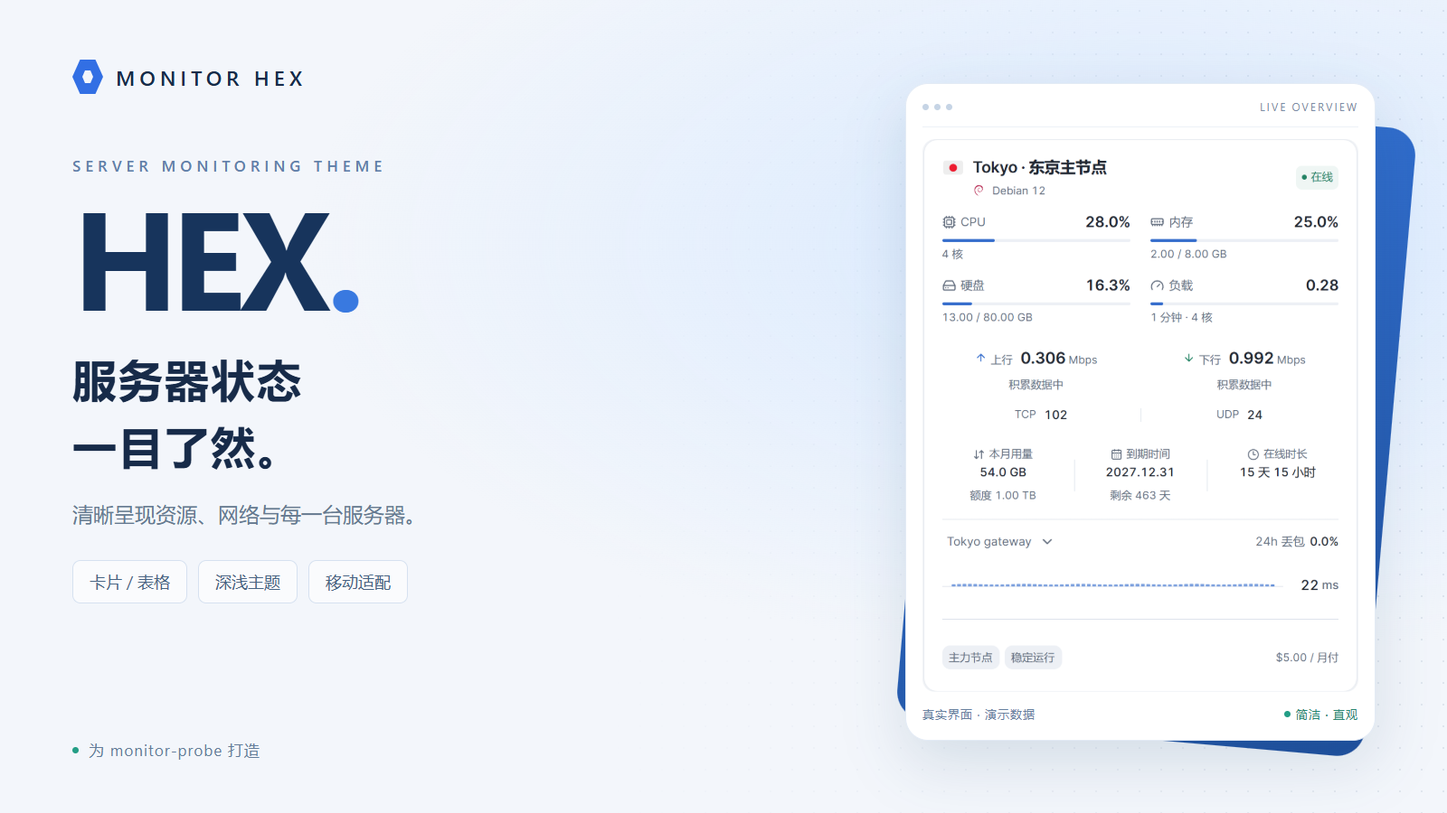
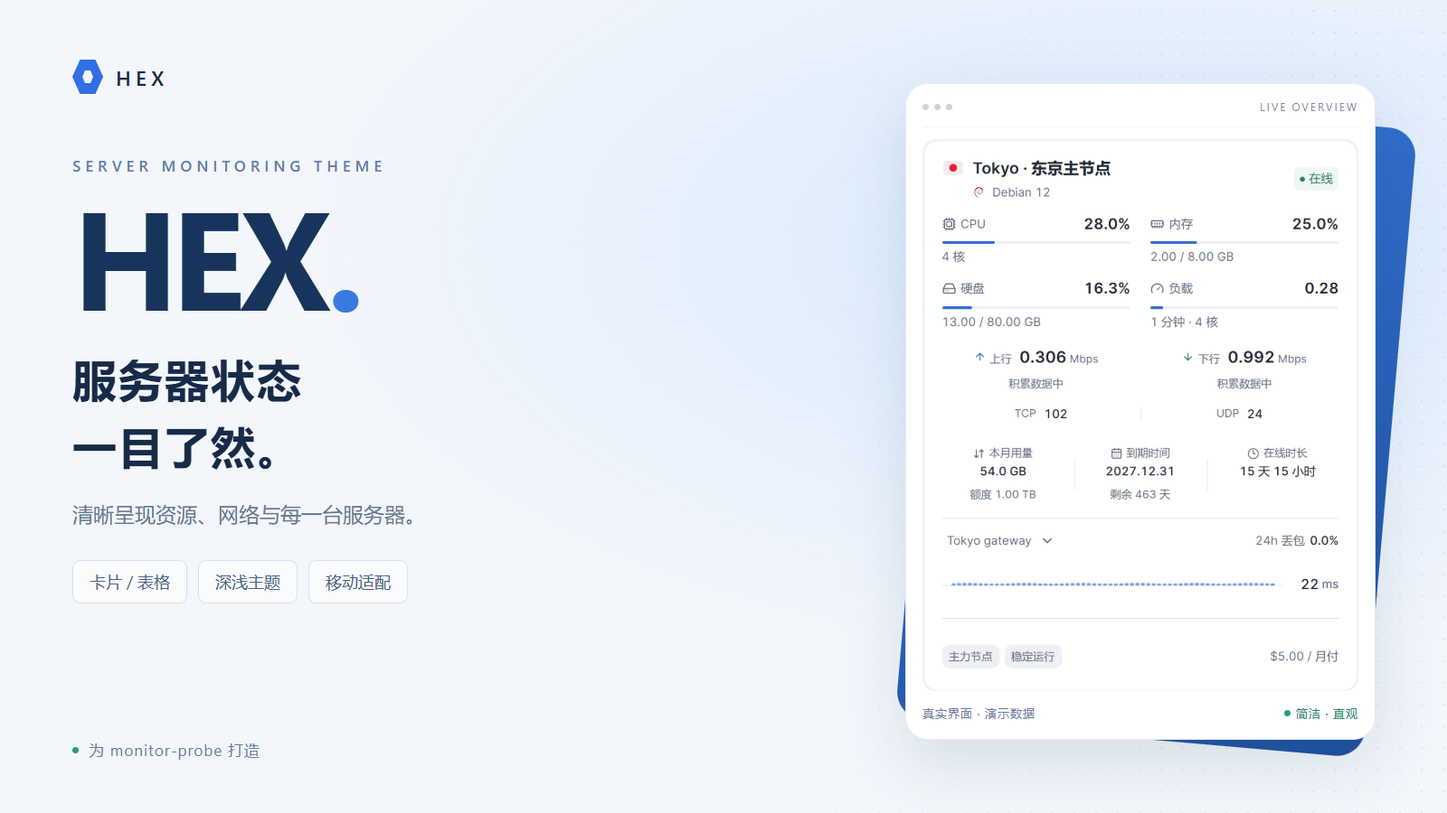
release: v0.2.8 rename HEX and refine visual hierarchy

diff --git a/src/styles/home.css b/src/styles/home.css
@@ -1,9 +1,9 @@
 /* Homepage finishing layer: restrained surfaces and consistent reading rhythm. */
 .next-theme {--home-line:color-mix(in srgb,var(--border) 65%,transparent);--home-float:color-mix(in srgb,var(--card) 92%,transparent)}
-.overview-heading .page-heading h1 {font-size:19px;font-weight:600;letter-spacing:-.025em}
+.overview-heading .page-heading h1 {font-size:var(--text-page);font-weight:600}
 .summary-grid {border-color:var(--home-line);border-radius:14px}
 .summary-grid>div {padding:16px 20px;border-left-color:var(--home-line)}
-.summary-grid .text-xl,.summary-grid .summary-total {font-size:24px;font-weight:600;letter-spacing:-.035em;line-height:1.35;margin:6px 0}
+.summary-grid .text-xl,.summary-grid .summary-total {font-size:24px;font-weight:600;line-height:1.35;margin:6px 0}
 .summary-grid .h-7 {height:12px;opacity:.55}
 .node-grid {gap:18px}
 .node-card {--card-pad:18px;border-color:var(--home-line);border-radius:14px;box-shadow:0 2px 8px #13243a04;transition:border-color .16s ease,box-shadow .16s ease}
@@ -12,21 +12,21 @@
 .node-card .node-heading {padding-top:16px;padding-bottom:12px;gap:7px}
 .node-card .node-symbol {width:23px}
 .node-card .node-symbol .flag-icon {width:20px;height:15px;border-radius:3px;box-shadow:none}
-.node-card .node-identity h3 {font-size:16px;line-height:1.45;letter-spacing:-.02em;font-weight:600}
-.node-card .node-identity p {font-size:11px;line-height:1.5;margin-top:4px}
+.node-card .node-identity h3 {font-size:var(--text-title);line-height:1.45;font-weight:600}
+.node-card .node-identity p {font-size:var(--text-small);line-height:1.5;margin-top:4px}
 .node-card .node-status-group {gap:4px}
-.node-card .status-pill {padding:3px 6px;font-size:11px;background:color-mix(in srgb,var(--muted) 65%,transparent)}
+.node-card .status-pill {padding:3px 6px;font-size:var(--text-small);background:color-mix(in srgb,var(--muted) 65%,transparent)}
 .node-card .status-pill.is-online {background:color-mix(in srgb,var(--ok) 7%,transparent)}
 .node-card .node-ip-tags {gap:3px}
-.node-card .node-ip-tags .tag {border:0;padding:2px 3px;color:var(--muted-foreground);background:var(--muted);font-size:11px}
-.node-card .resources {gap:16px 20px;padding-bottom:16px}
+.node-card .node-ip-tags .tag {border:0;padding:2px 3px;color:var(--muted-foreground);background:var(--muted);font-size:var(--text-small)}
+.node-card .resources {gap:16px 20px;padding-bottom:10px}
 .node-card .resource-label>span {font-size:12px;gap:5px}
-.node-card .bar-number {font-size:15px;font-weight:600;letter-spacing:-.02em}
-.node-card .resource small {font-size:11px;line-height:1.5;margin-top:6px}
+.node-card .bar-number {font-size:15px;font-weight:600}
+.node-card .resource small {font-size:var(--text-small);line-height:1.5;margin-top:6px}
 .node-card .resource-columns {margin-top:7px}
 .node-card .speed-pair {padding:12px 0;border-color:transparent}
-.node-card .speed-pair strong {font-size:21px;font-weight:600;letter-spacing:-.025em}
-.node-card .speed-pair strong small {font-size:12px;letter-spacing:0}
+.node-card .speed-pair strong {font-size:21px;font-weight:600}
+.node-card .speed-pair strong small {font-size:var(--text-small)}
 .node-card .traffic-summary {border:0;border-top:1px solid var(--home-line);padding:12px 0 8px}
 .node-card .traffic-summary small,.node-card .traffic-summary b {font-size:12px;font-weight:400;color:var(--muted-foreground)}
 .node-card .node-connections {border:0;padding:8px 0;font-size:12px;gap:20px}
@@ -42,28 +42,28 @@
 .node-card .node-timing b {color:var(--muted-foreground);font-weight:400}
 .node-card .node-timing .expiring b {color:var(--warn)}
 .node-card .node-footer {padding:8px 0 16px;gap:8px}
-.node-card .node-price {font-size:11px;border:0;padding:0;background:transparent;color:var(--muted-foreground)}
-.node-card .node-remarks .detail-remark-tag {font-size:11px;padding:3px 7px;background:color-mix(in srgb,var(--remark-ink) 7%,var(--card));color:color-mix(in srgb,var(--remark-ink) 60%,var(--foreground))}
+.node-card .node-price {font-size:var(--text-small);border:0;padding:0;background:transparent;color:var(--muted-foreground)}
+.node-card .node-remarks .detail-remark-tag {font-size:var(--text-small);padding:3px 7px;background:color-mix(in srgb,var(--remark-ink) 7%,var(--card));color:color-mix(in srgb,var(--remark-ink) 60%,var(--foreground))}
 .region-atlas {border-color:var(--home-line);border-radius:14px}
 .region-atlas .map-land path {fill:color-mix(in srgb,var(--muted) 74%,var(--card))}
 .region-atlas .map-land .populated-region {fill:color-mix(in srgb,var(--tone) 32%,var(--card))}
 .region-atlas .section-heading,.region-atlas .map-tools,.region-atlas .map-view-switch {background:var(--home-float);border-color:var(--home-line);box-shadow:0 2px 8px #00000006;border-radius:10px;backdrop-filter:blur(8px)}
-.region-atlas .section-heading h2 {font-size:12px;letter-spacing:.015em}
+.region-atlas .section-heading h2 {font-size:14px}
 .region-atlas .region-list button {min-width:auto;min-height:34px;padding:6px 9px;border-color:var(--home-line);border-radius:8px;gap:7px;background:var(--home-float);box-shadow:0 2px 6px #00000006}
 .region-atlas .region-list button:first-child {min-width:34px;padding:6px}
 .region-atlas .region-list .flag-icon {width:19px;height:14px;border-radius:2px;box-shadow:none}
 .region-atlas .region-list button>b {font-size:10px;color:var(--muted-foreground);font-weight:500}
 .region-atlas .map-help {border-color:var(--home-line);background:var(--home-float)}
 @media(max-width:720px){
- .overview-heading .page-heading h1 {font-size:17px}
+ .overview-heading .page-heading h1 {font-size:20px}
  .summary-grid>div {padding:14px 12px}
- .summary-grid .text-xl,.summary-grid .summary-total {font-size:20px;letter-spacing:-.025em;margin:5px 0}
+ .summary-grid .text-xl,.summary-grid .summary-total {font-size:20px;margin:5px 0}
  .node-grid {gap:14px}
  .node-card {--card-pad:16px}
  .node-card .node-heading {padding-block:15px}
  .node-card .node-identity h3 {font-size:15px}
  .node-card .speed-pair strong {font-size:20px}
- .region-atlas .section-heading h2 {font-size:11px}
+ .region-atlas .section-heading h2 {font-size:13px}
 }
 @media(max-width:360px){.node-card .speed-pair strong {font-size:20px;flex-direction:column;align-items:flex-end;gap:3px}.node-card .node-status-group {gap:3px}.node-card .node-heading {gap:5px}.node-card .node-identity h3 {font-size:15px}}
 @media(prefers-reduced-motion:reduce){.node-card {transition:none}}
@@ -76,13 +76,13 @@
 .load-history-button:hover {background:var(--muted);color:var(--foreground)}
 .load-alert-summary {display:block;width:100%;text-align:left;min-width:0}
 .load-alert-summary .summary-total {display:flex;align-items:baseline;gap:8px}
-.load-alert-summary .summary-total small {font-size:11px;font-weight:400;letter-spacing:0;color:var(--muted-foreground)}
+.load-alert-summary .summary-total small {font-size:var(--text-small);font-weight:400;color:var(--muted-foreground)}
 .load-alert-tile[data-active=true] .summary-total {color:var(--warn)}
-.load-latest-name {display:block;overflow:hidden;text-overflow:ellipsis;white-space:nowrap;font-size:11px}
-.load-latest-time {display:flex;flex-wrap:wrap;gap:3px 8px;color:var(--muted-foreground);font-size:11px;margin-top:4px;font-variant-numeric:tabular-nums}
+.load-latest-name {display:block;overflow:hidden;text-overflow:ellipsis;white-space:nowrap;font-size:var(--text-small)}
+.load-latest-time {display:flex;flex-wrap:wrap;gap:3px 8px;color:var(--muted-foreground);font-size:var(--text-small);margin-top:4px;font-variant-numeric:tabular-nums}
 .load-latest-time>span:last-child {display:inline-flex;align-items:center;gap:3px}
-.load-empty {font-size:11px;color:var(--muted-foreground)}
-.load-storage-warning {font-size:10px;color:var(--warn)}
+.load-empty {font-size:var(--text-small);color:var(--muted-foreground)}
+.load-storage-warning {font-size:var(--text-small);color:var(--warn)}
 .load-records {margin:auto;width:min(640px,calc(100vw - 24px));max-height:85dvh;padding:24px;border:1px solid var(--border);border-radius:16px;background:var(--card);color:var(--foreground);box-shadow:0 16px 64px #0003;overflow:hidden}
 .load-records[open] {display:flex;flex-direction:column}
 .load-records-heading {flex-shrink:0}
@@ -91,15 +91,15 @@
 .load-records-heading,.load-records-heading h2 {display:flex;align-items:center;gap:8px}
 .load-records-heading {justify-content:space-between;margin-bottom:12px}.load-records-heading h2 {font-size:16px;font-weight:600}
 .load-records-heading button {display:grid;place-items:center;width:44px;height:44px;border-radius:8px;background:var(--muted)}
-.load-records-note {font-size:11px;line-height:1.7;color:var(--muted-foreground);margin:4px 0}
+.load-records-note {font-size:var(--text-small);line-height:1.7;color:var(--muted-foreground);margin:4px 0}
 .load-records-list {display:grid;gap:10px;margin-top:18px}
 .load-records-list article {padding:14px;border:1px solid var(--border);border-radius:10px}
 .load-record-title {display:flex;align-items:start;justify-content:space-between;gap:10px;font-size:12px}
-.load-record-title strong {overflow-wrap:anywhere;min-width:0}.load-record-title>span {flex-shrink:0;font-size:10px;padding:2px 6px;border-radius:5px;background:var(--muted);color:var(--muted-foreground)}
+.load-record-title strong {overflow-wrap:anywhere;min-width:0}.load-record-title>span {flex-shrink:0;font-size:var(--text-small);padding:2px 6px;border-radius:5px;background:var(--muted);color:var(--muted-foreground)}
 .load-records-list [data-status=active] .load-record-title>span {color:var(--warn)}
 .load-records-list [data-status=recovered] .load-record-title>span {color:var(--ok)}
 .load-records-list dl {display:grid;grid-template-columns:repeat(2,minmax(0,1fr));gap:8px;margin-top:10px;font-size:12px}
-.load-records-list dt {font-size:10px;color:var(--muted-foreground);margin-bottom:3px}.load-records-list dd {font-variant-numeric:tabular-nums}
+.load-records-list dt {font-size:var(--text-small);color:var(--muted-foreground);margin-bottom:3px}.load-records-list dd {font-variant-numeric:tabular-nums}
 .load-duration {display:flex;align-items:center;gap:4px}.load-records-empty {padding:24px;text-align:center;color:var(--muted-foreground);font-size:12px}
 @media(max-width:900px){.summary-grid[data-load-alerts=true] {grid-template-columns:repeat(2,minmax(0,1fr))}.summary-grid[data-load-alerts=true]>div:nth-child(2n+1) {border-left:0}.summary-grid[data-load-alerts=true]>div:nth-child(n+3) {border-top:1px solid var(--border)}}
 @media(max-width:400px){.load-records {padding:16px}.load-records-list dl {grid-template-columns:repeat(2,minmax(0,1fr))}.load-record-title {flex-wrap:wrap}}
@@ -107,7 +107,7 @@
 .node-card .latency-link {display:inline-flex;align-items:center;justify-content:flex-end;gap:3px;flex-shrink:0;white-space:nowrap;font-weight:500;font-size:inherit;padding:2px 0;min-height:44px;background:transparent;text-align:right;border-radius:4px}
 .node-card .latency-link:hover {text-decoration:underline}.node-card .latency-link[data-tone=good] {color:var(--foreground)}.node-card .latency-link[data-tone=fair] {color:var(--warn)}.node-card .latency-link:is([data-tone=slow],[data-tone=bad],[data-tone=timeout]) {color:var(--destructive)}
 .node-card .matrix-heading .route-select {border-color:transparent;background:transparent}.node-card .matrix-heading .route-select:is(:hover,:focus-visible) {background:var(--muted);border-color:var(--border)}
-.alert-node-link {text-align:left;font-weight:600;overflow-wrap:anywhere;color:var(--tone);min-width:0}.alert-node-link:disabled {color:var(--muted-foreground);cursor:default}.load-record-title>small {font-size:10px}
+.alert-node-link {text-align:left;font-weight:600;overflow-wrap:anywhere;color:var(--tone);min-width:0}.alert-node-link:disabled {color:var(--muted-foreground);cursor:default}.load-record-title>small {font-size:var(--text-small)}
 
 /* Shared numeric rhythm and quieter secondary information. */
 .node-card {font-variant-numeric:tabular-nums}

diff --git a/src/styles/detail.css b/src/styles/detail.css
@@ -24,7 +24,7 @@
 .detail-title-row,.detail-title {display:flex;align-items:center;gap:10px;min-width:0}
 .detail-title-row {justify-content:flex-start;align-items:center;flex-wrap:wrap;gap:10px 16px}
 .detail-title {flex:0 1 auto;max-width:100%}.detail-title .flag-icon {width:26px;height:19px;flex-shrink:0;border-radius:3px}
-.node-detail .detail-title h2 {font-size:24px;font-weight:600;line-height:1.45;letter-spacing:-.5px;overflow-wrap:anywhere}
+.node-detail .detail-title h2 {font-size:24px;font-weight:600;line-height:1.45;overflow-wrap:anywhere}
 .detail-title-row .node-status-group {flex-shrink:0;margin-top:5px}
 .detail-subtitle {display:flex;align-items:center;flex-wrap:wrap;gap:10px 16px;margin-top:10px;color:var(--muted-foreground);font-size:11px}
 .detail-subtitle>span {display:inline-flex;align-items:center;gap:6px}
@@ -36,12 +36,12 @@
 .detail-resources {display:grid;grid-template-columns:repeat(2,minmax(0,1fr));gap:24px 20px}
 .detail-live .resource-label {font-size:12px}.detail-live .resource-label>span {gap:4px;white-space:nowrap}
 .detail-live .bar-number {font-size:15px;font-weight:600;font-variant-numeric:tabular-nums}
-.detail-live .resource small {font-size:11px;color:var(--muted-foreground)}
+.detail-live .resource small {font-size:var(--text-small);color:var(--muted-foreground)}
 .detail-speed.speed-indicators {display:grid;grid-template-columns:repeat(2,minmax(0,1fr));margin:20px 0 0;padding:18px 0 0;gap:16px;border-top:1px solid var(--detail-line)}
 .detail-speed.speed-indicators>div {column-gap:4px;grid-template-columns:14px minmax(0,1fr)}
-.detail-speed.speed-indicators strong {font-size:22px;letter-spacing:-.4px;white-space:nowrap}.detail-speed small {font-size:11px;letter-spacing:0}
+.detail-speed.speed-indicators strong {font-size:22px;white-space:nowrap}.detail-speed small {font-size:var(--text-small)}
 .detail-connections {display:grid;grid-template-columns:repeat(2,minmax(0,1fr));gap:16px;margin-top:18px;padding-top:14px;border-top:1px solid var(--detail-line)}
-.detail-connections>div,.detail-connections span {display:flex;align-items:center;gap:5px}.detail-connections span {font-size:11px;color:var(--muted-foreground)}
+.detail-connections>div,.detail-connections span {display:flex;align-items:center;gap:5px}.detail-connections span {font-size:var(--text-small);color:var(--muted-foreground)}
 .detail-connections strong {margin-left:auto;font-size:13px;font-weight:500;font-variant-numeric:tabular-nums}
 .detail-information {grid-area:facts;min-width:0;display:grid;gap:16px}
 .detail-information section {min-width:0;border:1px solid var(--detail-line);border-radius:14px;background:var(--card);padding:18px}
@@ -49,7 +49,7 @@
 .detail-facts {display:grid;gap:12px}.detail-facts>div {display:grid;grid-template-columns:70px minmax(0,1fr);align-items:baseline;gap:10px}
 .detail-facts dt {font-size:11px;color:var(--muted-foreground)}.detail-facts dd {margin:0;font-size:11px;line-height:1.6;text-align:right;overflow-wrap:anywhere;font-variant-numeric:tabular-nums}
 .detail-expiry-warning {color:var(--warn)}
-.detail-quota {margin-bottom:16px}.detail-quota>div {display:flex;align-items:center;justify-content:space-between;gap:6px;font-size:11px;margin-bottom:8px}
+.detail-quota {margin-bottom:16px}.detail-quota>div {display:flex;align-items:center;justify-content:space-between;gap:6px;font-size:var(--text-small);margin-bottom:8px}
 .detail-quota progress {display:block;width:100%;height:4px;appearance:none;border:0;border-radius:3px;overflow:hidden;background:var(--muted);color:var(--tone)}
 .detail-quota progress::-webkit-progress-bar {background:var(--muted)}.detail-quota progress::-webkit-progress-value {background:var(--tone);border-radius:3px}.detail-quota progress::-moz-progress-bar {background:var(--tone)}
 .detail-history {grid-area:history;min-width:0;background:var(--card);border:1px solid var(--detail-line);border-radius:14px;padding:24px}
@@ -103,7 +103,7 @@
 .node-picker-list {display:grid;gap:4px}.node-picker-list>button {display:flex;align-items:center;gap:8px;text-align:left;padding:10px 8px;border-radius:8px;font-size:12px;min-width:0;width:100%}
 .node-picker-list>button>span:not(.status-pill) {flex:1;min-width:0;overflow-wrap:anywhere}.node-picker-list .flag-icon {width:20px;height:15px;flex-shrink:0}.node-picker-list svg {flex-shrink:0}
 .node-picker-list>button:hover,.node-picker-list>button[aria-current=true] {background:var(--muted)}.node-picker-list>p {font-size:12px;padding:16px;text-align:center}
-.event-context {font-size:11px;color:var(--muted-foreground);margin-top:16px;line-height:1.6}.event-context>span {display:block;color:var(--warn)}
+.event-context {font-size:var(--text-small);color:var(--muted-foreground);margin-top:16px;line-height:1.6}.event-context>span {display:block;color:var(--warn)}
 .detail-facts .copy-fact {display:inline-flex;vertical-align:middle;align-items:center;justify-content:center;min-height:24px;width:24px;margin-left:4px;color:var(--muted-foreground)}.detail-facts dd>small[role=status] {display:block;color:var(--tone)}
 @media(max-width:600px){.node-picker {left:0!important;top:auto!important;bottom:0;width:100%;max-height:75dvh;border-radius:16px 16px 0 0;padding:18px 16px;padding-bottom:max(18px,env(safe-area-inset-bottom))}.node-picker-list>button {min-height:48px}}
 
@@ -124,7 +124,7 @@
 .detail-chart-frame .recharts-tooltip-label {color:var(--muted-foreground);margin-bottom:6px!important}
 .detail-history-body>.skeleton {opacity:.55;border-radius:10px}
 .detail-speed.speed-indicators strong {font-variant-numeric:tabular-nums}
-.detail-speed.speed-indicators small {display:block;margin-top:3px;font-size:11px;line-height:1.4}
+.detail-speed.speed-indicators small {display:block;margin-top:3px;font-size:var(--text-small);line-height:1.4}
 .node-detail .detail-speed.speed-indicators>div {align-items:start}
 @media(min-width:900px) and (max-width:1199px){.detail-live .resource-label {flex-direction:column;align-items:flex-start;gap:5px}}
 @media(max-width:600px){

diff --git a/src/styles/table.css b/src/styles/table.css
@@ -29,7 +29,7 @@
 .node-table th,.node-table td {padding:8px 12px;border-bottom:1px solid var(--border);text-align:center;height:68px;vertical-align:middle}
 .node-table th {height:44px;padding-block:0;background:var(--muted);font-weight:500;color:var(--muted-foreground)}
 .node-table th button {width:100%;text-align:inherit;min-height:44px;background:none}
-.node-table th button span {color:var(--muted-foreground);font-size:11px}
+.node-table th button span {color:var(--muted-foreground);font-size:var(--text-small)}
 .node-table th :is(select,[data-slot="select"]) {min-width:0;width:auto;field-sizing:content;max-width:100%;min-height:28px;height:28px;padding:2px 4px;text-align:center;font-size:12px;line-height:20px;background:transparent;border:0;border-radius:4px;cursor:pointer;box-shadow:none}
 .node-table th :is(select,[data-slot="select"]):focus {outline:none;box-shadow:none}
 .node-table th :is(select,[data-slot="select"]):focus-visible:not([data-pointer-focus]) {outline:1px solid var(--muted-foreground);outline-offset:2px}
@@ -49,11 +49,11 @@
 .table-name-text {min-width:0;flex:1}
 .table-identity>div {display:flex;align-items:center;gap:2px}
 .table-node-name {min-width:0;max-width:170px;overflow:hidden;text-overflow:ellipsis;font-weight:600;white-space:nowrap;text-align:center;min-height:28px}
-.table-name-text>small {display:block;max-width:188px;overflow:hidden;text-overflow:ellipsis;color:var(--muted-foreground);font-size:11px}
+.table-name-text>small {display:block;max-width:188px;overflow:hidden;text-overflow:ellipsis;color:var(--muted-foreground);font-size:var(--text-small)}
 .next-theme .table-name-info {flex-shrink:0;display:grid;place-items:center;width:44px;min-height:44px;color:var(--muted-foreground);background:none}
 .table-status-dot {display:inline-block;width:6px;height:6px;background:var(--download);border-radius:50%;margin-right:7px;vertical-align:middle}
 .node-table tr:not([data-state=live]) .table-status-dot {background:var(--muted-foreground)}
-.table-identity .status-pill {font-size:11px;min-height:18px;padding:0;background:none}
+.table-identity .status-pill {font-size:var(--text-small);min-height:18px;padding:0;background:none}
 .table-identity .status-pill .dot {display:none}
 .table-metric {display:grid;gap:6px;min-width:50px;text-align:center}
 .table-metric progress,.table-traffic progress {height:3px;width:100%;appearance:none;border:0;background:var(--muted);color:var(--tone);display:block;border-radius:2px}
@@ -65,29 +65,29 @@
 .table-speed>span {display:flex;justify-content:center;align-items:baseline;gap:4px}
 .table-speed>span:before {content:'↑';color:var(--upload);text-align:center}
 .table-speed [data-direction=download]:before {content:'↓';color:var(--download)}
-.table-speed small {font-size:11px;color:var(--muted-foreground)}
+.table-speed small {font-size:var(--text-small);color:var(--muted-foreground)}
 .table-ping {text-align:center;min-width:178px}
 .table-ping-value {display:flex;justify-content:center;align-items:center;gap:8px;min-height:24px}
 .table-ping-value strong {font-size:13px;font-weight:600}
 .table-ping-value button {min-height:44px}
-.table-latency-grade {display:flex;gap:4px;align-items:center;font-size:11px;color:var(--muted-foreground)}
+.table-latency-grade {display:flex;gap:4px;align-items:center;font-size:var(--text-small);color:var(--muted-foreground)}
 .table-grade-bars {position:relative;display:inline-block;width:28px;height:4px;background:repeating-linear-gradient(90deg,var(--muted) 0 8px,transparent 8px 10px);border-radius:1px}
 .table-grade-bars:before {content:'';position:absolute;inset:0 auto 0 0;width:var(--grade-width,8px);background:repeating-linear-gradient(90deg,var(--grade-color,var(--upload)) 0 8px,transparent 8px 10px)}
 .table-latency-grade[data-level="2"] {--grade-width:18px;--grade-color:var(--warn)}
 .table-latency-grade[data-level="3"] {--grade-width:28px;--grade-color:var(--destructive)}
 .table-ping:is([data-tone=bad],[data-tone=timeout]) strong {color:var(--destructive)}
-.table-network-meta {display:flex;gap:8px;justify-content:center;color:var(--muted-foreground);font-size:11px;align-items:baseline}
+.table-network-meta {display:flex;gap:8px;justify-content:center;color:var(--muted-foreground);font-size:var(--text-small);align-items:baseline}
 .table-route {max-width:100px;overflow:hidden;text-overflow:ellipsis}
-.table-network-meta small {font-size:11px;white-space:nowrap}
+.table-network-meta small {font-size:var(--text-small);white-space:nowrap}
 .table-network-meta [data-loss=true] {color:var(--warn)}
-.table-history-note {display:block;color:var(--muted-foreground);font-size:11px}
+.table-history-note {display:block;color:var(--muted-foreground);font-size:var(--text-small)}
 .table-traffic {font-size:12px}
 .table-traffic progress {margin-top:6px}
-.table-traffic small {font-size:11px;color:var(--muted-foreground)}
+.table-traffic small {font-size:var(--text-small);color:var(--muted-foreground)}
 .table-traffic .table-over-limit {display:block;margin-top:4px;color:var(--destructive)}
 .table-expiry {display:grid;gap:4px;font-size:12px}
 .table-expiry strong {font-weight:500}
-.table-expiry time {font-size:11px;color:var(--muted-foreground)}
+.table-expiry time {font-size:var(--text-small);color:var(--muted-foreground)}
 .table-expiry[data-state=soon] strong {color:var(--warn)}
 .table-expiry[data-state=expired] strong {color:var(--destructive)}
 .table-sort-toolbar {display:flex;align-items:center;gap:12px;flex-wrap:wrap;font-size:12px;color:var(--muted-foreground);margin-bottom:12px}

diff --git a/src/styles/detail-overview.css b/src/styles/detail-overview.css
@@ -16,17 +16,17 @@
 .detail-network-reading>button:first-child:hover {border-color:var(--tone)}
 .detail-network-reading .detail-network-route {max-width:180px;overflow:hidden;text-overflow:ellipsis;white-space:nowrap;color:var(--muted-foreground)}
 .detail-network-reading strong {font-variant-numeric:tabular-nums;font-weight:600}
-.detail-network-reading small {color:var(--muted-foreground);font-size:11px}
+.detail-network-reading small {color:var(--muted-foreground);font-size:var(--text-small)}
 .detail-network-reading[data-fresh=false] strong {color:var(--muted-foreground)}
 .detail-network-reading>button:first-child svg {margin-left:auto;flex-shrink:0;color:var(--muted-foreground)}
 .detail-network-retry {min-height:36px;padding:0 10px;border:1px solid var(--detail-line);border-radius:7px;background:var(--card);font-size:12px}
-.detail-overview-grid h3 {font-size:12px;font-weight:500;color:var(--muted-foreground);margin:0 0 16px}
+.detail-overview-grid h3 {font-size:13px;font-weight:600;color:var(--foreground);margin:0 0 16px}
 .overview-group-heading {display:flex;justify-content:space-between;align-items:baseline;gap:8px}
-.overview-group-heading>small {font-size:11px;color:var(--muted-foreground)}
+.overview-group-heading>small {font-size:var(--text-small);color:var(--muted-foreground)}
 .node-detail .detail-live .detail-resources {grid-template-columns:repeat(2,minmax(0,1fr));gap:16px 22px}
 .node-detail .detail-live .detail-resources>.resource {padding:0;border:0;min-width:0}
 .node-detail .detail-live .resource-label {flex-direction:row;justify-content:space-between;gap:6px}
-.node-detail .detail-live .resource small {font-size:11px;margin-top:5px;display:block}
+.node-detail .detail-live .resource small {font-size:var(--text-small);margin-top:5px;display:block}
 .node-detail .detail-live .detail-speed {padding:0;margin:0;border:0;gap:20px}
 .node-detail .detail-live .detail-speed>div {padding:0;border:0;grid-template-columns:12px minmax(0,1fr);gap:4px}
 .node-detail .detail-live .detail-speed>div+div {padding:0;border:0}
@@ -34,7 +34,7 @@
 .node-detail .detail-live .detail-speed>div>svg:first-child,.node-detail .detail-live .detail-speed .speed-direction {transform:translateX(14px)}
 .node-detail .detail-live .detail-speed .speed-direction {width:max-content}
 .node-detail .detail-live .detail-speed strong {transform:translateX(-14px);font-size:18px}
-.node-detail .detail-live .detail-speed strong small {font-size:11px;margin:0}
+.node-detail .detail-live .detail-speed strong small {font-size:var(--text-small);margin:0}
 .node-detail .detail-live .speed-trend-caption {display:none}
 .node-detail .detail-live .speed-trend .micro-trend {height:36px}
 .node-detail .detail-live .detail-connections {grid-template-columns:repeat(2,minmax(0,1fr));gap:20px;margin:0;padding:10px 0 0;border:0}
@@ -45,7 +45,7 @@
 .overview-billing>div {display:flex;flex-direction:column;gap:6px;min-width:0}
 .overview-billing span {font-size:12px;color:var(--muted-foreground)}
 .overview-billing b {font-size:13px;font-weight:500;overflow-wrap:anywhere}
-.overview-billing small {font-size:11px;font-weight:400;color:var(--muted-foreground)}
+.overview-billing small {font-size:var(--text-small);font-weight:400;color:var(--muted-foreground)}
 .overview-billing .overview-expiry {text-align:right;align-items:flex-end}
 .overview-billing .expiring b,.overview-billing .expiring small {color:var(--warn)}
 .overview-usage progress {display:block;appearance:none;width:100%;height:3px;margin-top:4px;border:0;border-radius:2px;overflow:hidden;background:var(--muted);color:var(--tone)}
@@ -57,7 +57,7 @@
 .overview-account-footer svg {flex-shrink:0}
 .overview-price {margin-left:auto;text-align:right;max-width:50%;overflow-wrap:anywhere}
 .node-detail .overview-remarks {margin:0;padding:10px 0 12px;border-top:1px solid var(--detail-line);justify-content:flex-start;text-align:left}
-.overview-remarks-label {font-size:11px;color:var(--muted-foreground);margin-right:8px}
+.overview-remarks-label {font-size:var(--text-small);color:var(--muted-foreground);margin-right:8px}
 .node-detail .overview-remarks .detail-remark-tag {white-space:normal;overflow-wrap:anywhere;max-width:100%}
 .node-detail .overview-remarks.remarks-expanded {border-left:0;padding-left:0;align-items:center}
 .node-detail .overview-remarks.remarks-expanded .detail-remark-tag {padding:3px 7px;background:var(--remark-fill);color:var(--remark-ink)}
@@ -71,7 +71,7 @@
  .node-detail .detail-live .detail-speed>div>svg:first-child,.node-detail .detail-live .detail-speed .speed-direction {transform:translateX(4px)}
  .node-detail .detail-live .detail-speed strong {transform:translateX(-4px)}
 }
-@media(max-width:600px), (min-width:1200px) and (max-width:1350px){
+@media(max-width:600px), (min-width:900px) and (max-width:1050px), (min-width:1200px) and (max-width:1350px){
  .node-detail .detail-live .detail-speed>div {grid-template-columns:minmax(0,1fr) 12px max-content minmax(0,1fr)}
  .node-detail .detail-live .detail-speed>div>svg:first-child {grid-column:2;grid-row:1;transform:none}
  .node-detail .detail-live .detail-speed .speed-direction {grid-column:3;grid-row:1;transform:none}

diff --git a/src/styles/select.css b/src/styles/select.css
@@ -1,12 +1,12 @@
 /* Shared dropdowns use neutral surfaces in every palette and stay inside dialogs. */
-.next-theme [data-slot=select] {display:inline-flex;align-items:center;justify-content:space-between;gap:8px;min-width:0;max-width:100%;height:36px;min-height:36px;padding:6px 10px;border:1px solid var(--border);border-radius:7px;background:var(--card);color:var(--foreground);font:inherit;font-size:12px;line-height:1.5;text-align:left;box-shadow:none;cursor:pointer}
+.next-theme [data-slot=select] {display:inline-flex;align-items:center;justify-content:space-between;gap:8px;min-width:0;max-width:100%;height:36px;min-height:36px;padding:6px 10px;border:1px solid var(--input);border-radius:7px;background:var(--card);color:var(--foreground);font:inherit;font-size:12px;line-height:1.5;text-align:left;box-shadow:none;cursor:pointer}
 .select-value {min-width:0;overflow:hidden;text-overflow:ellipsis;white-space:nowrap}
 .select-chevron {display:inline-flex;flex-shrink:0;color:var(--muted-foreground)}
-.next-theme [data-slot=select]:hover {background:var(--muted);border-color:var(--border)}
+.next-theme [data-slot=select]:hover {background:var(--muted);border-color:var(--input)}
 .next-theme [data-slot=select]:focus {outline:none;box-shadow:none}
 .next-theme [data-slot=select]:focus-visible {outline:2px solid var(--muted-foreground);outline-offset:2px}
 .next-theme [data-slot=select][data-state=open] {border-color:var(--muted-foreground);background:var(--muted)}
-.select-menu {z-index:1000;min-width:var(--radix-select-trigger-width);width:max-content;max-width:min(360px,calc(100vw - 24px));max-height:min(320px,var(--radix-select-content-available-height));overflow:hidden;border:1px solid var(--border);border-radius:10px;background:var(--card);color:var(--foreground);box-shadow:0 8px 28px #0002;font-size:12px;font-weight:400;line-height:1.5;text-align:left}
+.select-menu {z-index:1000;min-width:var(--radix-select-trigger-width);width:max-content;max-width:min(360px,calc(100vw - 24px));max-height:min(320px,var(--radix-select-content-available-height));overflow:hidden;border:1px solid var(--input);border-radius:10px;background:var(--card);color:var(--foreground);box-shadow:0 8px 28px #0002;font-size:12px;font-weight:400;line-height:1.5;text-align:left}
 .select-options {padding:5px}
 .select-option {position:relative;display:flex;align-items:center;gap:8px;min-height:34px;padding:7px 30px 7px 10px;border-radius:6px;outline:none;cursor:pointer;overflow-wrap:anywhere;white-space:normal;user-select:none}
 .select-option[data-highlighted] {background:var(--muted);color:var(--foreground)}

diff --git a/tests/site-config.spec.ts b/tests/site-config.spec.ts
@@ -3,13 +3,16 @@ import {chooseOption} from './select'
 
 test('hub site settings win over legacy theme overrides while appearance stays personal', async ({page}) => {
   let writes = 0
-  await page.route('**/api/me', route => route.fulfill({json: {authed: true, github: false, site_name: 'Monitor HEX', public_page: true}}))
+  await page.route('**/api/me', route => route.fulfill({json: {authed: true, github: false, site_name: 'My Monitor', public_page: true}}))
   await page.route('**/api/themes/hex/config', route => {
     if (route.request().method() === 'PUT') writes++
     return route.fulfill({json: {palette: 'ocean', module_map: false, latencyScale: '500', desktopColumns: '3'}})
   })
   await page.addInitScript(()=>{if(!sessionStorage.getItem('legacy-seeded')){localStorage.setItem('monitor-next',JSON.stringify({_storageVersion:1,schemaVersion:3,designVersion:1,palette:'rose',appearance:'dark'}));sessionStorage.setItem('legacy-seeded','1')}})
   await page.goto('/')
+  await expect(page).toHaveTitle('My Monitor')
+  await expect(page.locator('.brand small')).toHaveText('HEX')
+  await expect(page.locator('.site-footer')).toContainText('HEX ·')
   await expect(page.locator('.next-theme')).toHaveAttribute('data-palette', 'ocean')
   await expect(page.locator('html')).toHaveClass(/\bdark\b/)
   await expect(page.locator('.node-grid')).toHaveAttribute('data-columns', '3')

diff --git a/src/styles/components.css b/src/styles/components.css
@@ -5,7 +5,8 @@ button:disabled {cursor:default;opacity:.45}
 :where(button,a,input,:is(select,[data-slot="select"])):focus-visible {outline:2px solid var(--tone);outline-offset:3px}
 .next-theme {position:relative;isolation:isolate;color:var(--foreground)}
 .next-theme :where(:is(select,[data-slot="select"]),input:not([type=checkbox],[type=range],[type=file]),button:not(.node-open,.brand,.table-node-name),a[data-slot=button]) {min-height:var(--control-height);font-size:var(--text-small);border-radius:var(--radius-control)}
-.next-theme :is(select,[data-slot="select"]) {border:1px solid var(--border);background:var(--card);color:var(--foreground);padding:6px 10px;min-width:0;max-width:100%}
+.next-theme input:not([type=checkbox],[type=range],[type=file]),.next-theme :is(select,[data-slot="select"]) {border-color:var(--input)}
+.next-theme :is(select,[data-slot="select"]) {border:1px solid var(--input);background:var(--card);color:var(--foreground);padding:6px 10px;min-width:0;max-width:100%}
 /* Native popup options need an opaque surface even when the trigger is transparent. */
 .next-theme :is(select,[data-slot="select"]) option,.next-theme :is(select,[data-slot="select"]) optgroup {background:var(--card);color:var(--foreground)}
 .next-theme :is(select,[data-slot="select"]) option:checked {background:var(--muted);color:var(--foreground)}

diff --git a/src/App.tsx b/src/App.tsx
@@ -198,7 +198,7 @@ export default function App({ siteDefaults = defaults }: {
     useEffect(() => {
         // Updating the browser title is intentional here, inside an effect.
         // oxlint-disable-next-line react/immutability
-        document.title = [selected?.name, me?.site_name || "Monitor HEX"].filter(Boolean).join(" · ");
+        document.title = [selected?.name, me?.site_name || "HEX"].filter(Boolean).join(" · ");
     }, [selected?.name, me?.site_name]);
     // Only while there is nothing else to show. Once `me` has loaded, a later
     // failure belongs beside the page rather than over it.
@@ -215,7 +215,7 @@ export default function App({ siteDefaults = defaults }: {
         <div className="mx-auto flex max-w-[1400px] items-center gap-3 px-4 py-3 sm:px-6">
           {/* The brand and explicit detail navigation share scroll restoration. */}
           <button className="brand" onClick={() => go(null)}>
-            <span>{me.site_name || "Monitor HEX"}<small>MONITOR HEX</small></span>
+            <span>{me.site_name || "HEX"}<small>HEX</small></span>
           </button>
           <div className="flex-1"/>
           {!compactViewport && searchField("desktop-header-search")}

diff --git a/src/styles/tokens.css b/src/styles/tokens.css
@@ -5,7 +5,7 @@
   --control-height:36px;
   --background:#f3f5f8; --foreground:#202631; --card:#fff; --card-foreground:var(--foreground);
   --popover:var(--card); --popover-foreground:var(--foreground);
-  --muted:#edf0f5; --muted-foreground:#626d7e; --border:#dfe4ec; --input:var(--border);
+  --muted:#edf0f5; --muted-foreground:#626d7e; --border:#dfe4ec; --input:#8493a7;
   --secondary:var(--muted); --secondary-foreground:var(--foreground);
   --accent:var(--muted); --accent-foreground:var(--foreground);
   --tone:#356dcc; --tone-soft:color-mix(in srgb,var(--tone) 10%,transparent);
@@ -16,7 +16,7 @@
 }
 .dark {
   --background:#11151c; --foreground:#e9eef6; --card:#1b212b; --muted:#252e3b;
-  --muted-foreground:#a5b1c3; --border:#344052;
+  --muted-foreground:#a5b1c3; --border:#344052; --input:#66758a;
   --ok:#69d1ad; --warn:#edc168; --destructive:#ff8a9a; --upload:#8bb6ff; --download:#69d1ad;
   --tone:#8bb6ff; --primary-foreground:#142032;
   --chart-2:#69d1ad; --chart-3:#b7a0ed; --chart-4:#edc168; --chart-5:#e99fcb;

diff --git a/index.html b/index.html
@@ -4,7 +4,7 @@
     <meta charset="UTF-8" />
     <meta name="viewport" content="width=device-width, initial-scale=1.0" />
     <link rel="icon" href="/favicon.svg" />
-    <title>Monitor HEX</title>
+    <title>HEX</title>
   </head>
   <body>
     <div id="root"></div>

diff --git a/ACCEPTANCE.md b/ACCEPTANCE.md
@@ -1,4 +1,6 @@
-# Monitor HEX 0.2.7 检查说明
+# HEX 检查说明
+
+2026-09-24：v0.2.8 将主题显示名改为 HEX，统一首页、表格与详情页关键字体层级，并为输入框和选择器设置独立边框色。边框相对卡片背景对比度：浅色 3.13:1、深色 3.45:1。320、390、768、1440px 的中英文、明暗模式下，首页、表格及详情页均无页面级横向溢出；900px 详情页指标也已目视检查。首次完整 Chrome 回归 235 通过、2 项因卡片高度和指标间距失败；调整布局后专项 22 通过、1 跳过，最终完整回归 237 通过、17 跳过。生产构建、lint、业务测试通过。封面已按最终构建重生成；安装包包含 HEX 元数据、构建文件和封面，SHA-256 校验一致。本次为本地演示数据验收，需在后台上传安装包才能替换生产站点。
 
 2026-09-24：v0.2.7 移除公开页集中“显示与偏好”入口，将明暗模式、语言、主要探测线路和表格列改为就地调整；旧版浏览器偏好仅保留仍可在前台调整的个人选择，站点级配置统一跟随后台主题设置。独立干净工作树完成依赖安装、lint、业务测试、生产构建和完整 Chrome 回归（234 通过、17 跳过）。安装包内版本及 SHA-256 已核验。本次为本地演示数据验收，未直接替换生产站点。
 
